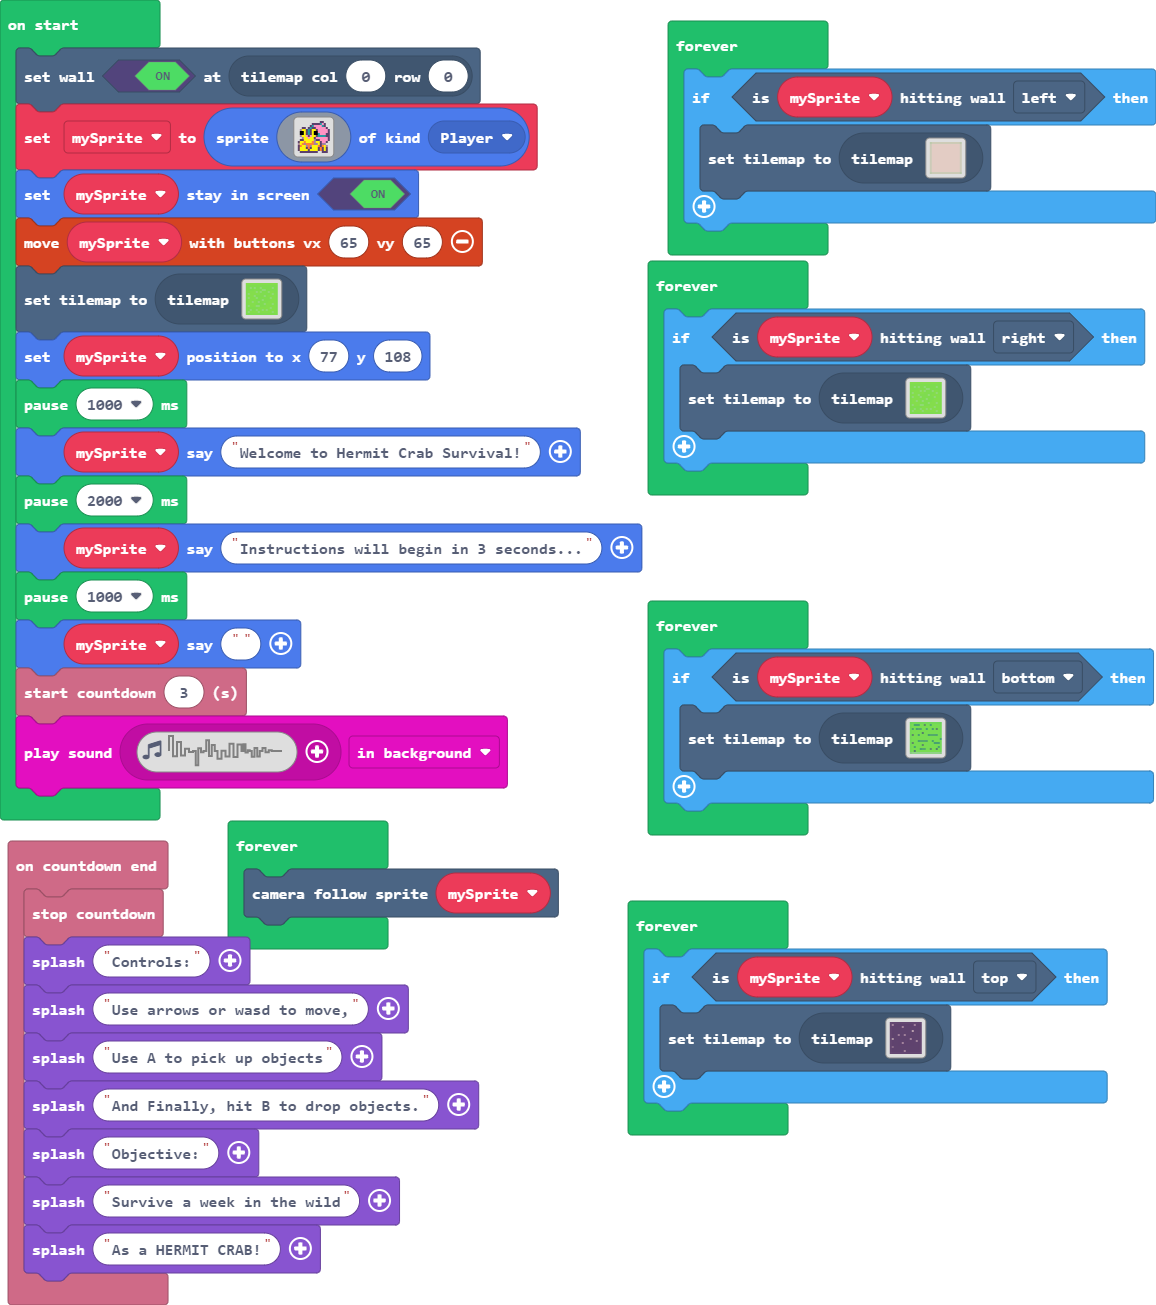
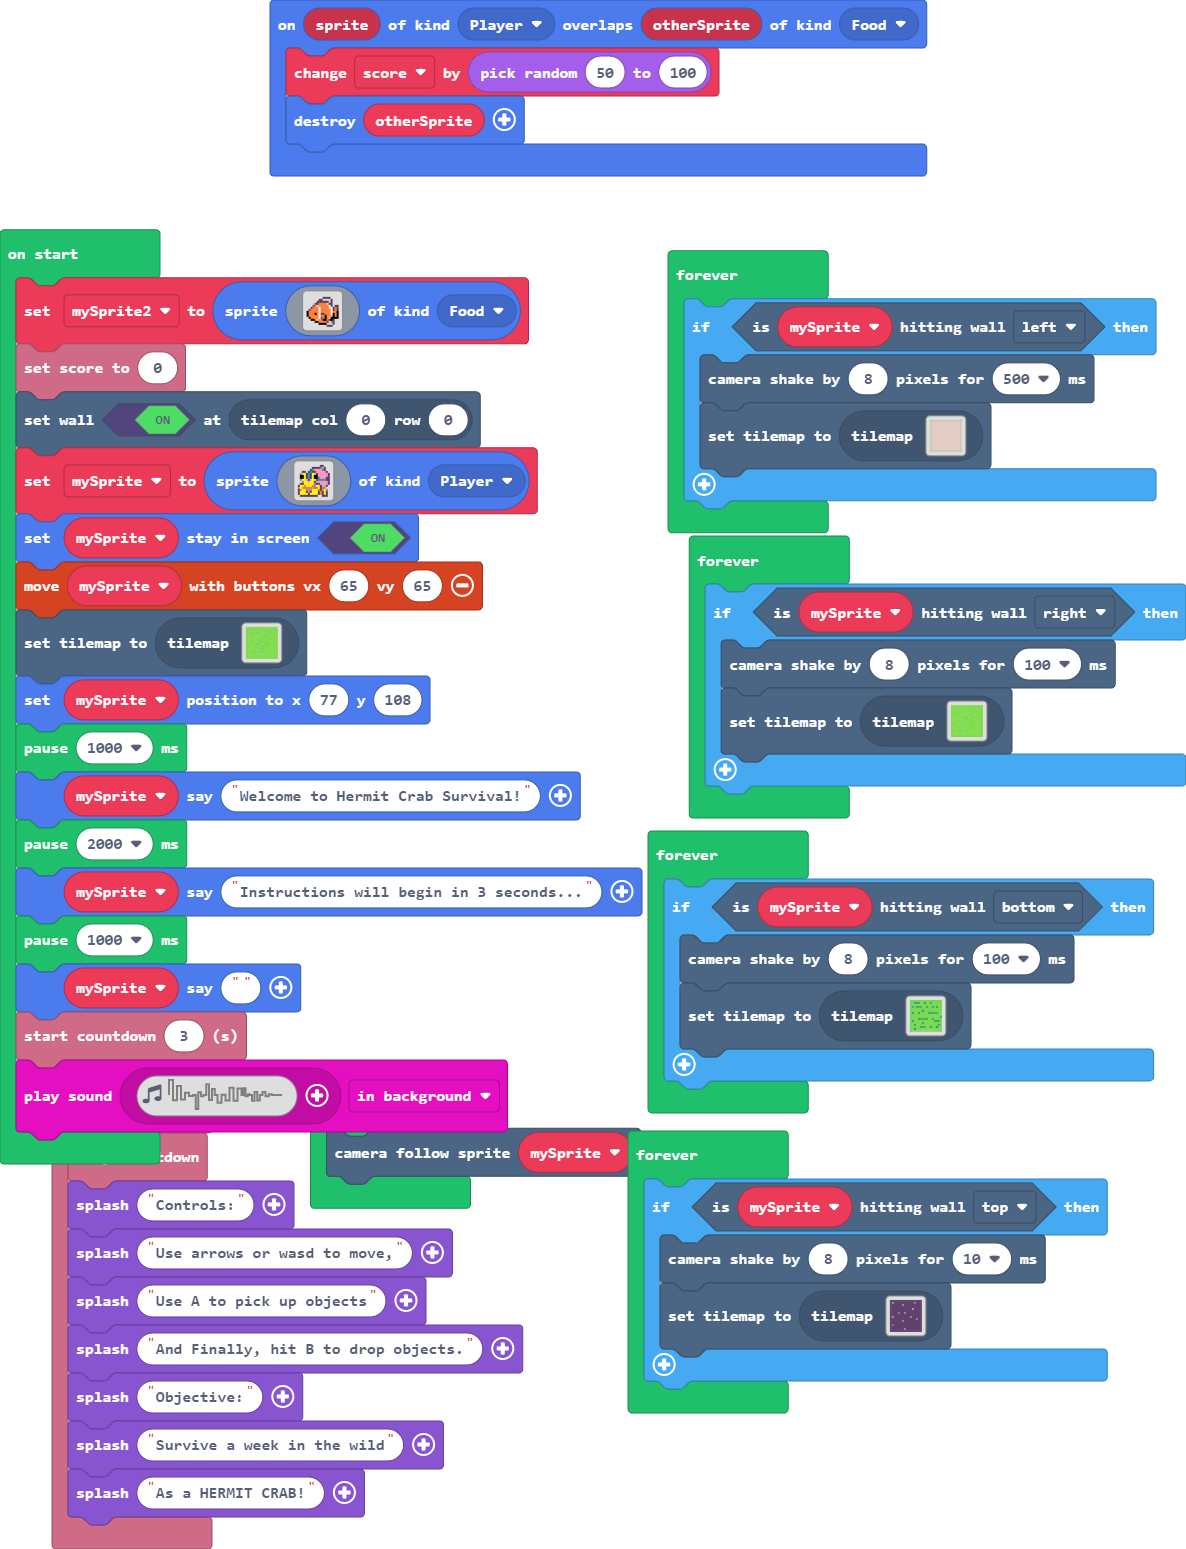
added 1 food sprite, camera shake when switching tilemaps.

diff --git a/main.ts b/main.ts
@@ -8,6 +8,30 @@ info.onCountdownEnd(function () {
     game.splash("Survive a week in the wild")
     game.splash("As a HERMIT CRAB!")
 })
+sprites.onOverlap(SpriteKind.Player, SpriteKind.Food, function (sprite, otherSprite) {
+    score += randint(50, 100)
+    otherSprite.destroy()
+})
+let score = 0
+let mySprite2 = sprites.create(img`
+    . . . . . . . . . . . . . . . . 
+    . . . . . . . . c c c c . . . . 
+    . . . . . . c c d d d d c . . . 
+    . . . . . c c c c c c d c . . . 
+    . . . . c c 4 4 4 4 d c c . . . 
+    . . . c 4 d 4 4 4 4 4 1 c . c c 
+    . . c 4 4 4 1 4 4 4 4 d 1 c 4 c 
+    . c 4 4 4 4 1 4 4 4 4 4 1 c 4 c 
+    f 4 4 4 4 4 1 4 4 4 4 4 1 4 4 f 
+    f 4 4 4 f 4 1 c c 4 4 4 1 f 4 f 
+    f 4 4 4 4 4 1 4 4 f 4 4 d f 4 f 
+    . f 4 4 4 4 1 c 4 f 4 d f f f f 
+    . . f f 4 d 4 4 f f 4 c f c . . 
+    . . . . f f 4 4 4 4 c d b c . . 
+    . . . . . . f f f f d d d c . . 
+    . . . . . . . . . . c c c . . . 
+    `, SpriteKind.Food)
+info.setScore(0)
 tiles.setWallAt(tiles.getTileLocation(0, 0), true)
 let mySprite = sprites.create(img`
     . . . . . . . . . . . c c . . . 
@@ -41,16 +65,19 @@ info.startCountdown(3)
 music.playSoundEffect(music.createSoundEffect(WaveShape.Noise, 5000, 1, 255, 0, 3000, SoundExpressionEffect.Warble, InterpolationCurve.Curve), SoundExpressionPlayMode.InBackground)
 forever(function () {
     if (mySprite.isHittingTile(CollisionDirection.Left)) {
+        scene.cameraShake(8, 500)
         tiles.setCurrentTilemap(tilemap`level1`)
     }
 })
 forever(function () {
     if (mySprite.isHittingTile(CollisionDirection.Right)) {
+        scene.cameraShake(8, 100)
         tiles.setCurrentTilemap(tilemap`level2`)
     }
 })
 forever(function () {
     if (mySprite.isHittingTile(CollisionDirection.Bottom)) {
+        scene.cameraShake(8, 100)
         tiles.setCurrentTilemap(tilemap`level3`)
     }
 })
@@ -59,6 +86,7 @@ forever(function () {
 })
 forever(function () {
     if (mySprite.isHittingTile(CollisionDirection.Top)) {
+        scene.cameraShake(8, 10)
         tiles.setCurrentTilemap(tilemap`level4`)
     }
 })
